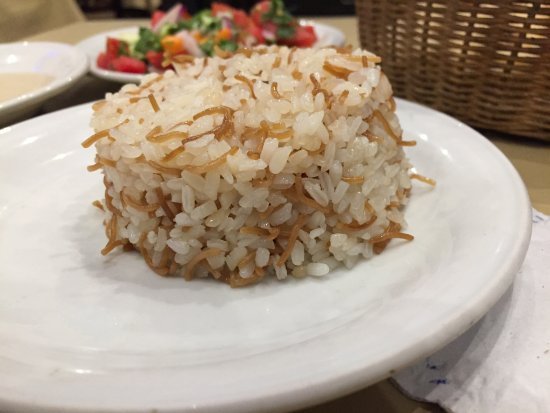
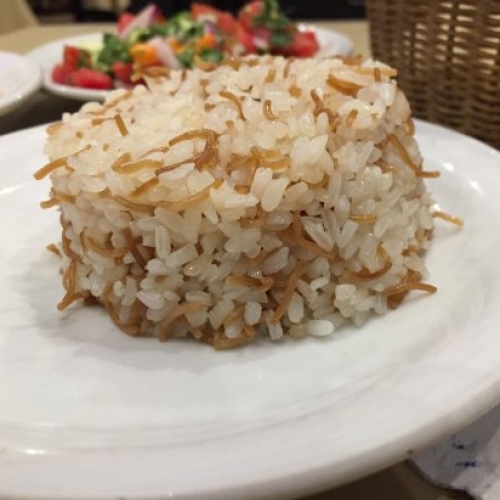
carousel images
sorted the image size and centre in the carousel. also updated html to close an open div.

diff --git a/index.html b/index.html
@@ -1,85 +1,88 @@
 <!DOCTYPE html>
 <html>
 <head>
-<script src="js/jquery-3.3.1.js"> </script>
-<script src="js/bootstrap.js"> </script>
+  <script type="text/javascript" src="js/jquery.min.js"></script>
+  <script type="text/javascript" src="js/jquery-3.3.1.js"> </script>
+  <script type="text/javascript" src="js/bootstrap.min.js"></script>
+  <script type="text/javascript" src="js/bootstrap.js"> </script>
+
 <link href='css/bootstrap.css' rel='stylesheet'>
 <link rel="stylesheet" type="text/css" href="css/index.css">
-<meta name='viewport' content='width=device-width, initial-scale=1.0'>
-<script type="text/javascript" src="js/bootstrap.min.js"></script>
-<link href='https://fonts.googleapis.com/css?family=Finger Paint' rel='stylesheet'>
-<meta charset="utf-8">
-  <meta name="viewport" content="width=auto, initial-scale=1">
-  <link rel="stylesheet" href="https://maxcdn.bootstrapcdn.com/bootstrap/3.3.7/css/bootstrap.min.css">
-  <script src="https://ajax.googleapis.com/ajax/libs/jquery/3.3.1/jquery.min.js"></script>
-  <script src="https://maxcdn.bootstrapcdn.com/bootstrap/3.3.7/js/bootstrap.min.js"></script>
+<link href="https://fonts.googleapis.com/css?family=Finger Paint" rel='stylesheet'>
 </head>
+
 <body>
-  <div class="row">
-    <div class="col-xs-2"></div>
-    <div class="col-xs-2">
-      <img src="logo.png" alt="Ricestaurant logo" class="logo">
-    </div>
-    <div class="col-xs-6">
-      <h1 class="title"> Ricestaurant </h1>
-    </div>
-    <div class="col-xs-2"></div>
-  </div>
+  <div class="container">
 
-  <div class="row">
-    <div class="col-xs-4"></div>
-    <div class="col-xs-4">
+    <div class="row">
+      <div class="col-xs-2"></div>
 
+      <div class="col-xs-2">
+        <img src="logo.png" alt="Ricestaurant logo" class="logo">
+      </div>
+
+      <div class="col-xs-6">
+        <h1 class="title"> Ricestaurant </h1>
+      </div>
+
+      <div class="col-xs-2"></div>
+    </div>
+
+    <div class="row">
+      <div class="col-xs-2"></div>
+
+      <div class="col-xs-8">
       <div class="container">
 
         <div class="btn-group">
           <span class="center1">
-          <button type="button" class="btn btn-primary">About Us</button>
-          <button type="button" class="btn btn-primary">Contact Us</button>
-          <button type="button" class="btn btn-primary">Menu</button>
+            <button type="button" class="btn btn-primary">About Us</button>
+            <button type="button" class="btn btn-primary">Contact Us</button>
+            <button type="button" class="btn btn-primary">Menu</button>
             <button type="button" class="btn btn-primary">Book a table</button></span>
         </div>
       </div>
-    </div>
+      </div>
 
-    <div class="col-xs-4"></div>
-  </div>
+      <div class="col-xs-2"></div>
+    </div>
 
   <div class="row">
     <div class="col-xs-2"></div>
+
     <div class="col-xs-8">
       <div id="myCarousel" class="carousel slide" data-ride="carousel">
-      <!-- Indicators -->
-      <ol class="carousel-indicators">
-        <li data-target="#myCarousel" data-slide-to="0" class="active"></li>
-        <li data-target="#myCarousel" data-slide-to="1"></li>
-        <li data-target="#myCarousel" data-slide-to="2"></li>
-      </ol>
+        <!-- Indicators -->
+        <ol class="carousel-indicators">
+          <li data-target="#myCarousel" data-slide-to="0" class="active"></li>
+          <li data-target="#myCarousel" data-slide-to="1"></li>
+          <li data-target="#myCarousel" data-slide-to="2"></li>
+        </ol>
 
-      <!-- Wrapper for slides -->
-      <div class="carousel-inner">
-        <div class="item active">
-          <img class="carouselimg" src="rice3.jpeg" alt="rice!">
+        <!-- Wrapper for slides -->
+        <div class="carousel-inner">
+          <div class="item active">
+            <img class="carouselimg" src="rice3.jpg" alt="rice!">
+          </div>
+
+          <div class="item">
+            <img class="carouselimg" src="rice2.jpg" alt="rice">
+          </div>
+
+          <div class="item">
+            <img class="carouselimg" src="rice-background.jpg" alt="More rice">
+          </div>
         </div>
 
-        <div class="item">
-          <img class="carouselimg" src="rice2.jpg" alt="rice">
-        </div>
-
-        <div class="item">
-          <img class="carouselimg" src="rice-background.png" alt="More rice">
-        </div>
-      </div>
-
-      <!-- Left and right controls -->
-      <a class="left carousel-control" href="#myCarousel" data-slide="prev">
-        <span class="glyphicon glyphicon-chevron-left"></span>
-        <span class="sr-only">Previous</span>
-      </a>
-      <a class="right carousel-control" href="#myCarousel" data-slide="next">
-        <span class="glyphicon glyphicon-chevron-right"></span>
-        <span class="sr-only">Next</span>
-      </a>
+        <!-- Left and right controls -->
+        <a class="left carousel-control" href="#myCarousel" data-slide="prev">
+          <span class="glyphicon glyphicon-chevron-left"></span>
+          <span class="sr-only">Previous</span>
+        </a>
+        <a class="right carousel-control" href="#myCarousel" data-slide="next">
+          <span class="glyphicon glyphicon-chevron-right"></span>
+          <span class="sr-only">Next</span>
+        </a>
     </div>
     </div>
     <div class="col-xs-2"></div>
@@ -101,7 +104,7 @@
             </div>
 
             <div class='col-xs-4'>
-              <img src='rice3.jpeg'>
+              <img src='rice3.jpg'>
               <blockquote>
                 <p>My team are always far more productive after we order from Sam's. 40% more productive, in fact.</p>
                 <small>Miss McAdam, CEO Workplace Analytics</small>
@@ -109,15 +112,16 @@
             </div>
 
             <div class='col-xs-4'>
-              <img src='rice-background.png'>
+              <img src='rice-background.jpg'>
               <blockquote>
                 <p>We switched to Sam's Sarnies and won our first government contract the next day. Coincidence? I think not!</p>
               </blockquote>
             </div>
           </div>
-    </div>
+      </div>
     <div class="col-xs-2"></div>
   </div>
+</div>
 
   <div class="row">
     <div class="col-xs-2"></div>
@@ -131,7 +135,7 @@
   <div class="row">
     <div class="col-xs-2"></div>
     <div class="col-xs-8">
-    <p class="address"> 234 Quayside<br> Newcastle Upon Tyne<br> NE8 2DB<p>
+    <p class="address">234 Quayside<br> Newcastle Upon Tyne<br> NE8 2DB<p>
     </div>
     <div class="col-xs-2"></div>
   </div>

diff --git a/css/index.css b/css/index.css
@@ -12,7 +12,7 @@ h1.title {
   padding-left:10px;
   padding-right:10px;
   padding-bottom: 0px;
-  font-size: 100px;
+  font-size: 80px;
   font-family: 'Finger Paint';
 }
 
@@ -26,6 +26,6 @@ img {
 }
 
 .carouselimg {
-  width: 500px;
-  text-align: center;
+  width: 400px;
+  margin:auto;
 }
